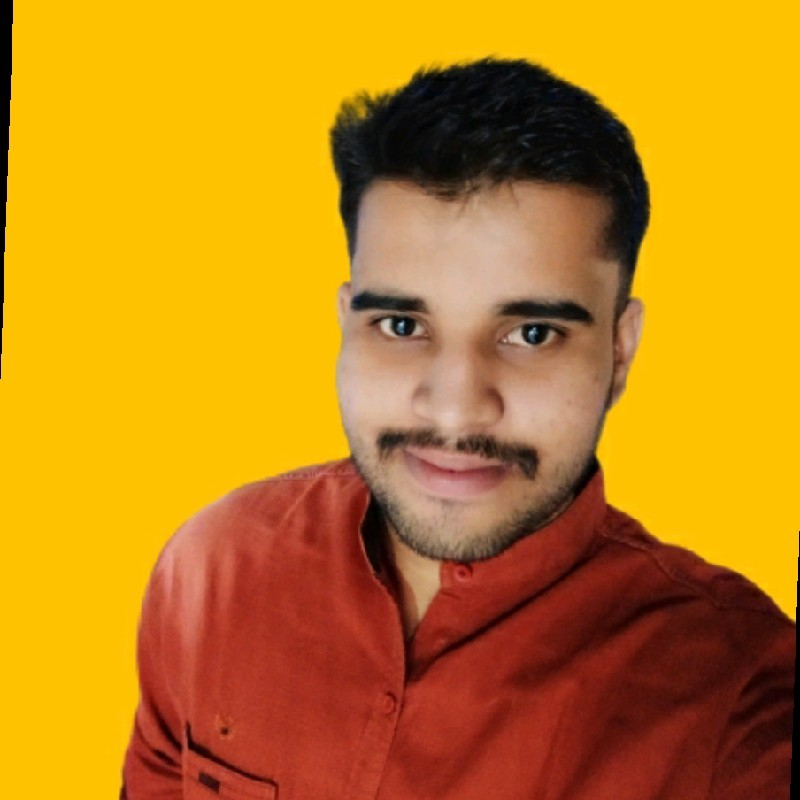
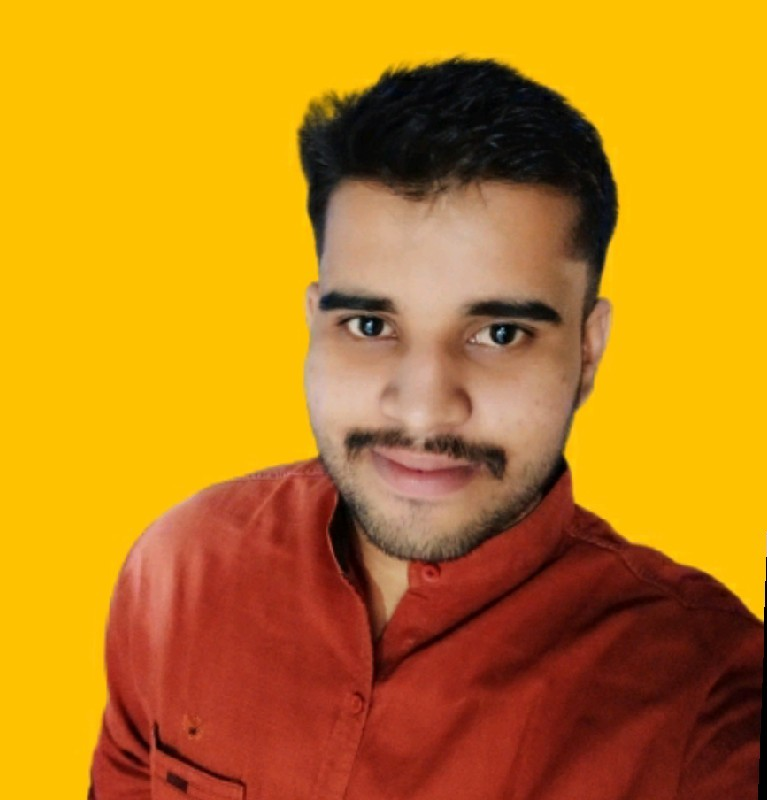
adding new project and about section

diff --git a/components/About.jsx b/components/About.jsx
@@ -1,48 +1,87 @@
 import Image from "next/image";
+import { AiFillHome } from "react-icons/ai";
+import { FaCalendarAlt } from "react-icons/fa";
+import { GiHobbitDwelling } from "react-icons/gi";
 
 const About = () => {
+  const aboutGrid = [
+    {
+      id: 1,
+      icon: <AiFillHome size={20} />,
+      title: "Residence",
+      text: "Thane, India",
+    },
+    {
+      id: 2,
+      icon: <FaCalendarAlt size={20} />,
+      title: "Age",
+      text: Date().slice(11, 15) - 2000,
+    },
+    {
+      id: 3,
+      icon: <GiHobbitDwelling size={20} />,
+      title: "Hobbies",
+      text: "Coding, Sketching",
+    },
+  ];
+
   return (
     <>
-    <section id="about">
-      <div className="max-w-7xl px-8 mx-auto pt-0 md:pt-10 pb-16 md:pb-20">
-        <p className="uppercase text-blue-600 text-lg">About</p>
-        <p className="mt-6 text-3xl font-medium">Who I Am</p>
-        <div className="flex items-center justify-around flex-col-reverse md:flex-row">
-          <div className="w-full px-2 md:max-w-2xl">
-            <div className="mt-12 text-gray-600 md:text-md text-justify md:text-left">
-              <p>
-                I&apos;m currently persuing MCA from University of Mumbai. I&apos;m a
-                Frontend Web Developer based in India. I specialize in building
-                (and occasionally designing) exceptional websites, applications,
-                and everything in between.
-              </p>
-              <p className="mt-6">
-                I enjoy creating things that live on the internet. I&apos;m focused
-                on building responsive front-end web application while learning
-                backend technologies.
-              </p>
-              <p className="mt-6">
-                My main focus these days is building accessible, inclusive
-                products and digital experiences at Kuchnaya Technolabs for a
-                variety of clients.
-              </p>
+      <section id="about">
+        <div className="max-w-7xl px-8 mx-auto pt-0 md:pt-10 pb-16 md:pb-20">
+          <p className="uppercase text-blue-600 text-lg">About</p>
+          <p className="mt-6 text-3xl font-medium">Who I Am</p>
+          <div className="flex items-center justify-around flex-col-reverse md:flex-row">
+            <div className="w-full px-2 md:max-w-2xl">
+              <div className="mt-12 text-gray-600 md:text-md text-justify md:text-left">
+                {/* <p>
+                  I&apos;m currently persuing MCA from University of Mumbai.
+                  I&apos;m a Frontend Web Developer based in India. I specialize
+                  in building (and occasionally designing) exceptional websites,
+                  applications, and everything in between.
+                </p> */}
+                <p className="mt-6">
+                  I enjoy creating things that live on the internet. I&apos;m
+                  focused on building responsive front-end web application while
+                  learning backend technologies.
+                </p>
+                <p className="mt-6">
+                  My main focus these days is building accessible, inclusive
+                  products and digital experiences at Kuchnaya Technolabs for a
+                  variety of clients.
+                </p>
+
+                <div className="grid grid-cols-1 sm:grid-cols-2 gap-4 md:gap-6 mt-6 md:grid-cols-3">
+                  {aboutGrid.map((item) => (
+                    <div key={item.id} className="flex items-center mt-4 md:mt-6">
+                      <div className="flex items-center justify-center w-10 h-10 mr-4 text-white bg-blue-300 rounded-full">
+                        {item.icon}
+                      </div>
+                      <div className="flex flex-col">
+                        <p className="text-md font-medium">{item.title}</p>
+                        <p className="text-gray-600 text-sm">{item.text}</p>
+                      </div>
+                    </div>
+                  ))}
+                </div>
+              </div>
+            </div>
+            <div
+              className="rounded-full overflow-hidden bg-blue-100 z-0
+            mt-10 md:mt-12 md:ml-10 p-2 flex shadow-lg items-center justify-center"
+            >
+              <Image
+                // src={"/assets/images/gamerProfile.webp"}
+                src={"/myProfile.png"}
+                alt="Profile Picture"
+                width={320}
+                height={320}
+                className="rounded-full object-cover"
+              />
             </div>
           </div>
-          <div
-            className="rounded-full overflow-hidden bg-blue-50 z-0
-            mt-10 md:mt-12 md:ml-10
-          "
-          >
-            <Image
-              src={"/assets/images/gamerProfile.webp"}
-              width={320}
-              height={320}
-              className="rounded-full object-contain"
-            />
-          </div>
         </div>
-      </div>
-    </section>
+      </section>
     </>
   );
 };
